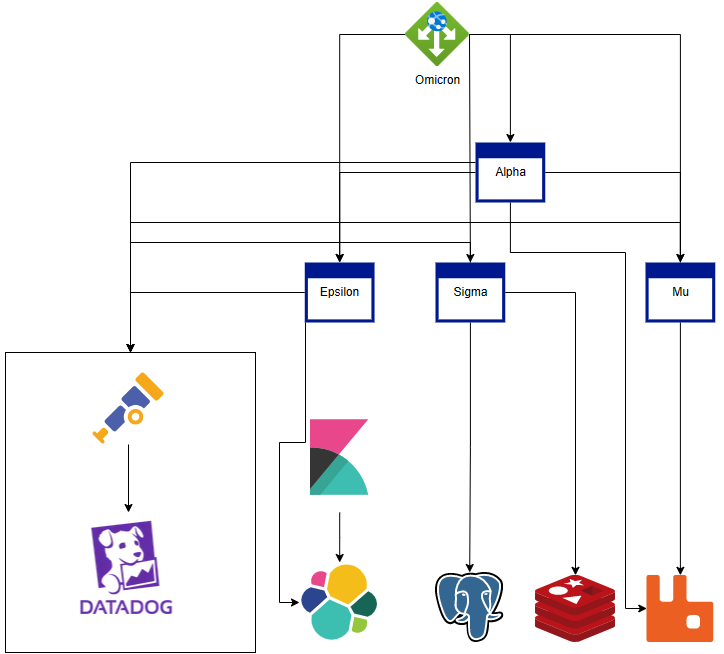
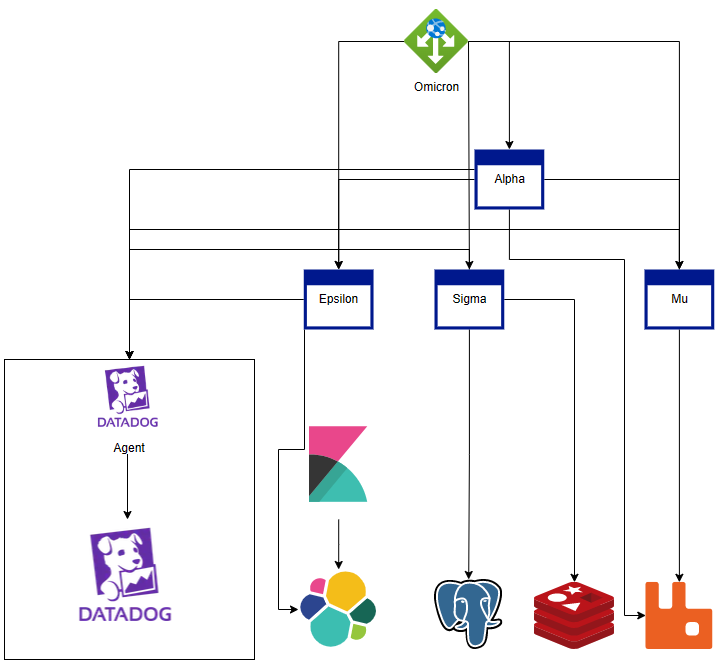
Datadog Agent instead of OTEL Collector

diff --git a/README.md b/README.md
@@ -27,7 +27,7 @@ Glory to Ukraine! 🇺🇦
 ## Project description
 
 This is fork of original [.NET OpenTelemetry Demo repo](https://github.com/mishamyte/OpenTelemetry-Demo).
-This project contains example of using OpenTelemetry with .NET web applications. It uses [OTEL Collector](https://opentelemetry.io/docs/collector/) and [DataDog](https://www.datadoghq.com/) backend for dealing with traces, metrics and logs.
+This project contains example of using OpenTelemetry with .NET web applications. It uses [Datadog Agent](https://opentelemetry.io/docs/collector/) and [Datadog](https://www.datadoghq.com/) backend for dealing with traces, metrics and logs.
 
 Solution consists of multiple services that use common infrastructure building blocks:
 - [Elasticsearch](https://www.elastic.co/) and [Kibana](https://www.elastic.co/kibana/)
@@ -41,7 +41,7 @@ Solution consists of multiple services that use common infrastructure building b
 
 ## How to run?
 
-Put your DataDog API key and site in otel-collector-config.yaml before run.
+Put your DataDog API key and site in docker-compose.yaml before run.
 
 You could run solution fully in containers, using
 
@@ -91,9 +91,9 @@ Exposes 3 endpoints:
 - _Creating entity_. Entity is created in SQL with EF Core.
 
 ## Data flows
-- _Logs_. Are exported to OTEL and passed to DataDog backend with DataDog exporter in OTEL collector.
-- _Metrics_. Are exported to OTEL and passed to DataDog backend with DataDog exporter in OTEL collector.
-- _Traces_. Are exported to OTEL and passed to DataDog backend with DataDog exporter in OTEL collector.
+- _Logs_. Are exported to OTEL but currently Datadog Agent (v7) not passing OTEL logs to Datadog backend.
+- _Metrics_. Are exported to OTEL and passed to Datadog backend through Datadog Agent.
+- _Traces_. Are exported to OTEL and passed to Datadog backend through Datadog Agent.
 
 ## Contributing
 
